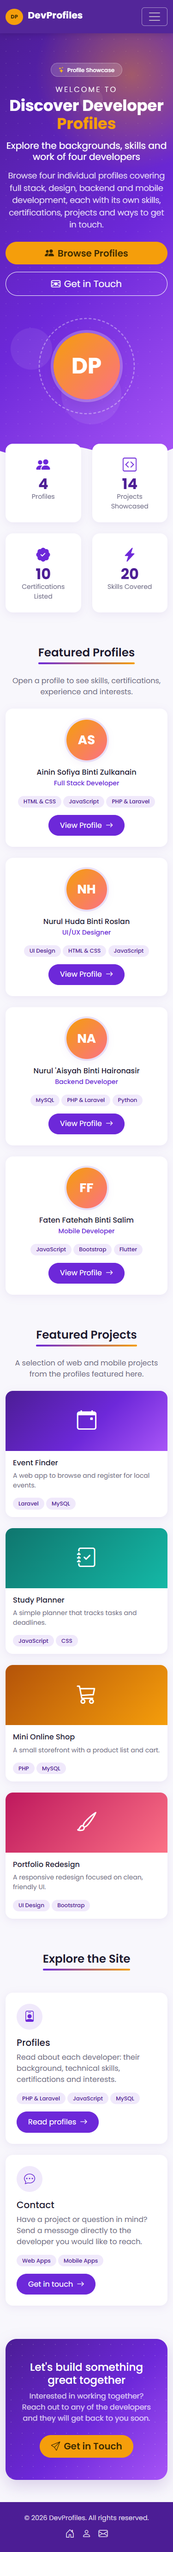
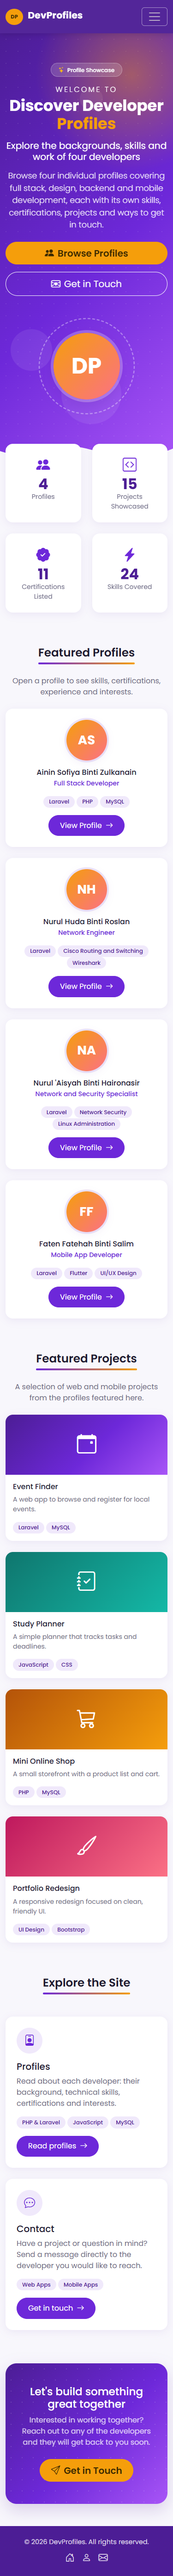
update

Changed region(s): [[0.0293, 0.1558, 0.968, 0.9969], [0.0293, 0.0312, 0.968, 0.1869]]

diff --git a/public/css/style.css b/public/css/style.css
@@ -304,10 +304,10 @@ html { scroll-behavior: smooth; }
 .form-select:focus { border-color: var(--c-primary); box-shadow: 0 0 0 .2rem rgba(109, 40, 217, .18); }
 
 /* ===== Profile pills: equal-width, avatar + name + role ===== */
-.member-pills { display: grid; grid-template-columns: repeat(4, 1fr); gap: 1rem; }
-.member-pills .nav-item { display: flex; }
+.member-pills { display: grid; grid-template-columns: repeat(4, minmax(0, 1fr)); gap: 1rem; }
+.member-pills .nav-item { display: flex; min-width: 0; }
 .member-pills .nav-link {
-    width: 100%; display: flex; align-items: center; gap: .75rem; text-align: left;
+    width: 100%; min-width: 0; display: flex; align-items: center; gap: .75rem; text-align: left;
     border-radius: 1rem; padding: .8rem 1rem; box-shadow: var(--shadow-soft);
     transition: transform .25s ease, box-shadow .25s ease, background .25s ease;
 }
@@ -319,10 +319,10 @@ html { scroll-behavior: smooth; }
 }
 .member-pills .pill-text { display: flex; flex-direction: column; line-height: 1.25; min-width: 0; }
 .member-pills .pill-text strong { font-weight: 600; font-size: 1rem; }
-.member-pills .pill-text small { font-size: .75rem; opacity: .7; overflow: hidden; text-overflow: ellipsis; white-space: nowrap; }
-@media (max-width: 991.98px) { .member-pills { grid-template-columns: repeat(2, 1fr); gap: .75rem; } }
+.member-pills .pill-text small { font-size: .75rem; opacity: .7; }
+@media (max-width: 991.98px) { .member-pills { grid-template-columns: repeat(2, minmax(0, 1fr)); gap: .75rem; } }
 @media (max-width: 575.98px) {
     .member-pills .nav-link { padding: .6rem .7rem; gap: .5rem; }
     .member-pills .pill-initials { width: 2.2rem; height: 2.2rem; font-size: .75rem; }
-    .member-pills .pill-text small { font-size: .68rem; }
+    .member-pills .pill-text small { font-size: .68rem; white-space: normal; }
 }

diff --git a/config/team.php b/config/team.php
@@ -3,12 +3,11 @@
 /*
  * Profile data for the whole site (no database). Read in views with config('team').
  *
- * SAMPLE CONTENT: names and slugs are real. Every other value in this file
- * (roles, bios, focus, skills and percentages, certifications, hobbies,
- * emails, phones, social links, project counts) is sample text that each
- * person MUST replace with their own details before the site is published.
- * Each person edits only their own block. 'ref' is kept for records only
- * and is never displayed on the website.
+ * Each person edits only their own block. Names, slugs, programmes, university
+ * and email addresses are real; skill percentages, certifications, hobbies,
+ * phone numbers, project counts and social links (#) are sample values to be
+ * replaced with each person's own details. 'ref' is kept for records only and
+ * is never displayed on the website.
  */
 
 return [
@@ -21,34 +20,35 @@ return [
         'name'     => 'Ainin Sofiya Binti Zulkanain',
         'ref'      => 'CB23015',
         'title'    => 'Full Stack Developer',
-        'bio'      => 'I am a full stack developer who builds complete web applications from database to interface, with a focus on clean code and reliable delivery. I enjoy turning a rough idea into a product people actually use.',
-        'focus'    => 'Web application development',
-        'location' => 'Kuala Lumpur, Malaysia',
-        'projects' => 4,
+        'bio'      => 'I am a Software Engineering undergraduate who builds complete web applications, from the database to the interface. I work mainly with PHP and Laravel and care about clean, maintainable code. I enjoy turning a rough idea into a product people actually use.',
+        'focus'    => 'Bachelor of Computer Science (Software Engineering)',
+        'location' => 'Universiti Malaysia Pahang Al-Sultan Abdullah',
+        'projects' => 5,
         'skills' => [
-            ['name' => 'HTML & CSS',     'level' => 90],
-            ['name' => 'JavaScript',     'level' => 75],
-            ['name' => 'PHP & Laravel',  'level' => 80],
-            ['name' => 'MySQL',          'level' => 70],
-            ['name' => 'Collaboration',       'level' => 85],
+            ['name' => 'Laravel',      'level' => 85],
+            ['name' => 'PHP',          'level' => 82],
+            ['name' => 'MySQL',        'level' => 78],
+            ['name' => 'JavaScript',   'level' => 75],
+            ['name' => 'Git',          'level' => 80],
+            ['name' => 'UI/UX Design', 'level' => 60],
         ],
         'certifications' => [
-            ['name' => 'Web Development Fundamentals', 'note' => 'Professional certificate', 'icon' => 'bi-globe2'],
-            ['name' => 'Cloud Computing Fundamentals', 'note' => 'Professional certificate', 'icon' => 'bi-cloud-check-fill'],
-            ['name' => 'Database Design',              'note' => 'Professional certificate', 'icon' => 'bi-database-fill'],
+            ['name' => 'Oracle Cloud Foundations',        'note' => 'Oracle University',         'icon' => 'bi-cloud-check-fill'],
+            ['name' => 'PHP and Laravel Web Development', 'note' => 'Online course certificate', 'icon' => 'bi-code-slash'],
+            ['name' => 'Git and GitHub Essentials',       'note' => 'Online course certificate', 'icon' => 'bi-git'],
         ],
         'hobbies' => [
-            ['name' => 'Reading',     'text' => 'Exploring new ideas and stories', 'icon' => 'bi-book'],
-            ['name' => 'Photography', 'text' => 'Capturing everyday moments',      'icon' => 'bi-camera'],
-            ['name' => 'Hiking',      'text' => 'Enjoying nature and fresh air',   'icon' => 'bi-compass'],
-            ['name' => 'Gaming',      'text' => 'Relaxing with friends',           'icon' => 'bi-controller'],
+            ['name' => 'Photography',  'text' => 'Capturing everyday moments',   'icon' => 'bi-camera'],
+            ['name' => 'Badminton',    'text' => 'Weekend games to stay active', 'icon' => 'bi-trophy'],
+            ['name' => 'Reading',      'text' => 'Novels and tech blogs',        'icon' => 'bi-book'],
+            ['name' => 'Cafe hopping', 'text' => 'Finding quiet places to code', 'icon' => 'bi-cup-hot'],
         ],
         'education' => [
-            ['q' => 'Background',               'icon' => 'bi-mortarboard', 'a' => 'I am a computer science graduate with hands-on experience building web applications for clients and internal tools.'],
-            ['q' => 'Highlights',               'icon' => 'bi-trophy',      'a' => 'I have delivered four projects end to end, from planning and design to deployment and support.'],
-            ['q' => 'What I like working on',   'icon' => 'bi-bullseye',    'a' => 'Business web apps, dashboards and APIs built with PHP, Laravel and MySQL.'],
+            ['q' => 'Education',              'icon' => 'bi-mortarboard', 'a' => 'Bachelor of Computer Science (Software Engineering) at Universiti Malaysia Pahang Al-Sultan Abdullah, expected to graduate in 2027.'],
+            ['q' => 'Highlights',             'icon' => 'bi-trophy',      'a' => 'I have built five web projects, including an event finder and a small online shop, using Laravel and MySQL.'],
+            ['q' => 'What I like working on', 'icon' => 'bi-bullseye',    'a' => 'Business web apps, dashboards and APIs, from planning the database to deployment.'],
         ],
-        'email'    => 'ainin@example.com',
+        'email'    => 'ainin@gmail.com',
         'phone'    => '+60 11-3381 8393',
         'social'   => ['linkedin' => '#', 'github' => '#', 'instagram' => '#'],
     ],
@@ -60,34 +60,35 @@ return [
         'initials' => 'NH',
         'name'     => 'Nurul Huda Binti Roslan',
         'ref'      => 'CA23046',
-        'title'    => 'UI/UX Designer',
-        'bio'      => 'I am a UI/UX designer who creates simple, friendly interfaces and turns them into working prototypes. I care about how a product feels as much as how it looks.',
-        'focus'    => 'Interface and experience design',
-        'location' => 'Kuala Lumpur, Malaysia',
+        'title'    => 'Network Engineer',
+        'bio'      => 'I am a Computer Systems and Networking undergraduate who enjoys designing, configuring and troubleshooting networks. I am most comfortable with Cisco routing and switching and with reading packet captures to see what is really happening. I like building reliable networks that people never have to think about.',
+        'focus'    => 'Bachelor of Computer Science (Computer Systems and Networking)',
+        'location' => 'Universiti Malaysia Pahang Al-Sultan Abdullah',
         'projects' => 3,
         'skills' => [
-            ['name' => 'UI Design',     'level' => 85],
-            ['name' => 'HTML & CSS',    'level' => 80],
-            ['name' => 'JavaScript',    'level' => 65],
-            ['name' => 'Figma',         'level' => 75],
-            ['name' => 'Communication', 'level' => 88],
+            ['name' => 'Laravel',                    'level' => 58],
+            ['name' => 'Cisco Routing and Switching', 'level' => 88],
+            ['name' => 'Wireshark',                   'level' => 80],
+            ['name' => 'Network Security',            'level' => 72],
+            ['name' => 'Linux Administration',        'level' => 66],
+            ['name' => 'Python Scripting',            'level' => 62],
         ],
         'certifications' => [
-            ['name' => 'UI Design Essentials',     'note' => 'Professional certificate', 'icon' => 'bi-palette-fill'],
-            ['name' => 'Web Accessibility Basics', 'note' => 'Professional certificate', 'icon' => 'bi-universal-access'],
+            ['name' => 'Cisco Introduction to Networks',                   'note' => 'Cisco Networking Academy', 'icon' => 'bi-diagram-3-fill'],
+            ['name' => 'Cisco Switching, Routing and Wireless Essentials', 'note' => 'Cisco Networking Academy', 'icon' => 'bi-router-fill'],
         ],
         'hobbies' => [
-            ['name' => 'Drawing', 'text' => 'Sketching ideas and characters', 'icon' => 'bi-brush'],
-            ['name' => 'Baking',  'text' => 'Trying out new recipes',         'icon' => 'bi-cup-hot'],
-            ['name' => 'Music',   'text' => 'Listening while designing',      'icon' => 'bi-music-note-beamed'],
+            ['name' => 'Gaming',   'text' => 'Strategy and co-op games',      'icon' => 'bi-controller'],
+            ['name' => 'Home lab', 'text' => 'Tinkering with spare hardware', 'icon' => 'bi-motherboard'],
+            ['name' => 'Cycling',  'text' => 'Evening rides around town',     'icon' => 'bi-bicycle'],
         ],
         'education' => [
-            ['q' => 'Background',               'icon' => 'bi-mortarboard', 'a' => 'I am a design-focused developer with experience in user research, wireframing and high-fidelity prototyping.'],
-            ['q' => 'Highlights',               'icon' => 'bi-trophy',      'a' => 'I have designed the interfaces for three shipped products, each tested with real users.'],
-            ['q' => 'What I like working on',   'icon' => 'bi-bullseye',    'a' => 'Design systems, landing pages and mobile-first product interfaces.'],
+            ['q' => 'Education',              'icon' => 'bi-mortarboard', 'a' => 'Bachelor of Computer Science (Computer Systems and Networking) at Universiti Malaysia Pahang Al-Sultan Abdullah, expected to graduate in 2027.'],
+            ['q' => 'Highlights',             'icon' => 'bi-trophy',      'a' => 'I have configured multi-VLAN network designs with inter-VLAN routing and tested them in Cisco Packet Tracer.'],
+            ['q' => 'What I like working on', 'icon' => 'bi-bullseye',    'a' => 'Network design, traffic analysis and troubleshooting connectivity problems.'],
         ],
-        'email'    => 'huda@example.com',
-        'phone'    => '+60 12-000 0002',
+        'email'    => 'huda@gmail.com',
+        'phone'    => '+60 12-902 4367',
         'social'   => ['linkedin' => '#', 'github' => '#', 'instagram' => '#'],
     ],
 
@@ -98,37 +99,37 @@ return [
         'initials' => 'NA',
         'name'     => "Nurul 'Aisyah Binti Haironasir",
         'ref'      => 'CA23014',
-        'title'    => 'Backend Developer',
-        'bio'      => 'I am a backend developer who works on the data and server side of products, making sure they are fast, secure and dependable. I like solving the problems users never have to see.',
-        'focus'    => 'APIs, databases and server logic',
-        'location' => 'Kuala Lumpur, Malaysia',
-        'projects' => 4,
+        'title'    => 'Network and Security Specialist',
+        'bio'      => 'I am a Computer Systems and Networking undergraduate focused on keeping networks and servers secure. I enjoy hardening Linux systems, working with cloud networking on AWS and writing small Python tools. I like finding weak points before anyone else does.',
+        'focus'    => 'Bachelor of Computer Science (Computer Systems and Networking)',
+        'location' => 'Universiti Malaysia Pahang Al-Sultan Abdullah',
+        'projects' => 3,
         'skills' => [
-            ['name' => 'MySQL',           'level' => 85],
-            ['name' => 'PHP & Laravel',   'level' => 75],
-            ['name' => 'Python',          'level' => 70],
-            ['name' => 'Git',             'level' => 72],
-            ['name' => 'Problem Solving', 'level' => 82],
-            ['name' => 'Collaboration',        'level' => 80],
+            ['name' => 'Laravel',                   'level' => 60],
+            ['name' => 'Network Security',            'level' => 86],
+            ['name' => 'Linux Administration',        'level' => 82],
+            ['name' => 'Cloud Networking (AWS)',      'level' => 74],
+            ['name' => 'Wireshark',                   'level' => 72],
+            ['name' => 'Python Scripting',            'level' => 70],
         ],
         'certifications' => [
-            ['name' => 'Database Design',          'note' => 'Professional certificate', 'icon' => 'bi-database-fill'],
-            ['name' => 'Python Programming',       'note' => 'Professional certificate', 'icon' => 'bi-code-slash'],
-            ['name' => 'Version Control with Git', 'note' => 'Professional certificate', 'icon' => 'bi-git'],
+            ['name' => 'AWS Cloud Practitioner',         'note' => 'Amazon Web Services',      'icon' => 'bi-cloud-fill'],
+            ['name' => 'Cisco Cybersecurity Essentials', 'note' => 'Cisco Networking Academy', 'icon' => 'bi-shield-lock-fill'],
+            ['name' => 'Linux Essentials',               'note' => 'Cisco Networking Academy', 'icon' => 'bi-terminal-fill'],
         ],
         'hobbies' => [
-            ['name' => 'Reading', 'text' => 'Exploring new ideas and stories', 'icon' => 'bi-book'],
-            ['name' => 'Cooking', 'text' => 'Making meals for family',         'icon' => 'bi-egg-fried'],
-            ['name' => 'Walking', 'text' => 'Clearing the mind outdoors',      'icon' => 'bi-tree'],
-            ['name' => 'Puzzles', 'text' => 'Logic games and brain teasers',   'icon' => 'bi-puzzle'],
+            ['name' => 'Cooking',  'text' => 'Trying recipes at home',         'icon' => 'bi-egg-fried'],
+            ['name' => 'Hiking',   'text' => 'Weekend trails and fresh air',   'icon' => 'bi-tree'],
+            ['name' => 'Podcasts', 'text' => 'Cybersecurity and tech stories', 'icon' => 'bi-headphones'],
+            ['name' => 'Chess',    'text' => 'Planning a few moves ahead',     'icon' => 'bi-puzzle'],
         ],
         'education' => [
-            ['q' => 'Background',               'icon' => 'bi-mortarboard', 'a' => 'I am a backend engineer with experience designing relational databases and REST APIs.'],
-            ['q' => 'Highlights',               'icon' => 'bi-trophy',      'a' => 'I have built and maintained the backends for four projects, including data migrations and integrations.'],
-            ['q' => 'What I like working on',   'icon' => 'bi-bullseye',    'a' => 'Performance tuning, secure authentication and clean data models.'],
+            ['q' => 'Education',              'icon' => 'bi-mortarboard', 'a' => 'Bachelor of Computer Science (Computer Systems and Networking) at Universiti Malaysia Pahang Al-Sultan Abdullah, expected to graduate in 2027.'],
+            ['q' => 'Highlights',             'icon' => 'bi-trophy',      'a' => 'I have secured a Linux web server with firewall rules and SSH hardening, and set up a small VPC on AWS.'],
+            ['q' => 'What I like working on', 'icon' => 'bi-bullseye',    'a' => 'Network security, server hardening and automating routine checks with Python.'],
         ],
-        'email'    => 'aisyah@example.com',
-        'phone'    => '+60 12-000 0003',
+        'email'    => 'aisyah@gmail.com',
+        'phone'    => '+60 19-278 5143',
         'social'   => ['linkedin' => '#', 'github' => '#', 'instagram' => '#'],
     ],
 
@@ -139,33 +140,36 @@ return [
         'initials' => 'FF',
         'name'     => 'Faten Fatehah Binti Salim',
         'ref'      => 'CB23068',
-        'title'    => 'Mobile Developer',
-        'bio'      => 'I am a mobile developer who builds responsive apps that feel smooth on any screen size. I enjoy polishing the small details that make an app pleasant to use every day.',
-        'focus'    => 'Mobile and responsive front end',
-        'location' => 'Kuala Lumpur, Malaysia',
-        'projects' => 3,
+        'title'    => 'Mobile App Developer',
+        'bio'      => 'I am a Software Engineering undergraduate who builds cross-platform mobile apps with Flutter. I care about smooth, friendly interfaces and enjoy polishing the small details that make an app pleasant to use every day.',
+        'focus'    => 'Bachelor of Computer Science (Software Engineering)',
+        'location' => 'Universiti Malaysia Pahang Al-Sultan Abdullah',
+        'projects' => 4,
         'skills' => [
-            ['name' => 'JavaScript', 'level' => 80],
-            ['name' => 'Bootstrap',  'level' => 85],
-            ['name' => 'Flutter',    'level' => 60],
-            ['name' => 'HTML & CSS', 'level' => 88],
+            ['name' => 'Laravel',     'level' => 70],
+            ['name' => 'Flutter',      'level' => 85],
+            ['name' => 'UI/UX Design', 'level' => 82],
+            ['name' => 'JavaScript',   'level' => 74],
+            ['name' => 'Git',          'level' => 72],
+            ['name' => 'MySQL',        'level' => 68],
         ],
         'certifications' => [
-            ['name' => 'Responsive Web Design', 'note' => 'Professional certificate', 'icon' => 'bi-phone-fill'],
-            ['name' => 'Mobile App Development', 'note' => 'Professional certificate', 'icon' => 'bi-tablet-fill'],
+            ['name' => 'Flutter Development Bootcamp', 'note' => 'Online course certificate', 'icon' => 'bi-phone-fill'],
+            ['name' => 'Google UX Design Foundations', 'note' => 'Coursera',                  'icon' => 'bi-palette-fill'],
+            ['name' => 'Responsive Web Design',        'note' => 'freeCodeCamp',              'icon' => 'bi-tablet-fill'],
         ],
         'hobbies' => [
-            ['name' => 'Travelling', 'text' => 'Discovering new places',      'icon' => 'bi-airplane'],
-            ['name' => 'Movies',     'text' => 'Weekend watch parties',       'icon' => 'bi-film'],
-            ['name' => 'Badminton',  'text' => 'Staying active with friends', 'icon' => 'bi-trophy'],
+            ['name' => 'Digital sketching', 'text' => 'Drawing characters and app ideas', 'icon' => 'bi-brush'],
+            ['name' => 'Travelling',        'text' => 'Discovering new places',           'icon' => 'bi-airplane'],
+            ['name' => 'Movies',            'text' => 'Weekend watch nights',             'icon' => 'bi-film'],
         ],
         'education' => [
-            ['q' => 'Background',               'icon' => 'bi-mortarboard', 'a' => 'I am a front-end and mobile developer with experience shipping cross-platform apps.'],
-            ['q' => 'Highlights',               'icon' => 'bi-trophy',      'a' => 'I have delivered three responsive web and mobile projects used across phones, tablets and desktops.'],
-            ['q' => 'What I like working on',   'icon' => 'bi-bullseye',    'a' => 'Cross-platform apps, progressive web apps and animated, accessible interfaces.'],
+            ['q' => 'Education',              'icon' => 'bi-mortarboard', 'a' => 'Bachelor of Computer Science (Software Engineering) at Universiti Malaysia Pahang Al-Sultan Abdullah, expected to graduate in 2027.'],
+            ['q' => 'Highlights',             'icon' => 'bi-trophy',      'a' => 'I have built four Flutter and responsive web projects, each designed in Figma before development.'],
+            ['q' => 'What I like working on', 'icon' => 'bi-bullseye',    'a' => 'Cross-platform mobile apps with animated, accessible interfaces.'],
         ],
-        'email'    => 'faten@example.com',
-        'phone'    => '+60 12-000 0004',
+        'email'    => 'faten@gmail.com',
+        'phone'    => '+60 17-635 2084',
         'social'   => ['linkedin' => '#', 'github' => '#', 'instagram' => '#'],
     ],
 

diff --git a/BUILD_STEPS.md b/BUILD_STEPS.md
@@ -173,3 +173,20 @@ The site now presents four individual personal profiles, not a group. Layout, ro
 | 7 | `screenshots/` | All screenshots retaken. |
 
 Verification: `/`, `/about`, `/contact` return HTTP 200 (titles `Home | DevProfiles` etc.); tabs, hash links, accordion, validation, toast and 375px/1280px overflow checks pass; no JS errors. The rendered HTML of all three pages has no match for team, we, our, group, placeholder text, student, matric, 01B, Kodera or any matric ID. Remaining source matches are only code comments, the config file name, the `config('team')` call and Bootstrap's `list-group` class, none of which is displayed.
+
+## Realistic profile content (config/team.php) and pill fix
+
+Only `config/team.php` content changed (same fields and structure); views, routes and design are untouched, apart from the small CSS fix below.
+
+| Person | Programme | Title | Skills | Certifications | Email |
+|--------|-----------|-------|--------|----------------|-------|
+| Ainin (`ainin`) | Software Engineering | Full Stack Developer | Laravel, PHP, MySQL, JavaScript, Git, UI/UX Design | Oracle Cloud Foundations, PHP and Laravel Web Development, Git and GitHub Essentials | ainin@gmail.com |
+| Faten (`faten`) | Software Engineering | Mobile App Developer | Flutter, UI/UX Design, JavaScript, Git, MySQL | Flutter Development Bootcamp, Google UX Design Foundations, Responsive Web Design | faten@gmail.com |
+| Huda (`huda`) | Computer Systems and Networking | Network Engineer | Cisco Routing and Switching, Wireshark, Network Security, Linux Administration, Python Scripting | Cisco Introduction to Networks, Cisco Switching, Routing and Wireless Essentials | huda@gmail.com |
+| Aisyah (`aisyah`) | Computer Systems and Networking | Network and Security Specialist | Network Security, Linux Administration, Cloud Networking (AWS), Wireshark, Python Scripting, Cisco Routing and Switching | AWS Cloud Practitioner, Cisco Cybersecurity Essentials, Linux Essentials | aisyah@gmail.com |
+
+- First-person bios (2 to 3 sentences) match each field; hobbies (3 to 4) differ per person; the first accordion item is "Education": Bachelor of Computer Science (their programme), Universiti Malaysia Pahang Al-Sultan Abdullah, expected 2027, followed by "Highlights" and "What I like working on".
+- Phone numbers (`+60 1X-XXX XXXX` style, all different) and project counts are sample values; social links remain `#`. Ainin's phone was edited by the user and kept as is.
+- Home stats are computed from the config: 4 profiles, 15 projects showcased, 11 certifications listed, 24 skills covered (after Laravel was added for everyone; Aisyah's Cisco Routing and Switching skill was replaced by Laravel to stay at 6 skills).
+- CSS fix (`public/css/style.css`, profile pills): columns are now `minmax(0, 1fr)` and the role text wraps, because the longer role "Network and Security Specialist" stretched the grid and caused 72px of horizontal overflow at 375px on About.
+- Verification: all 3 pages return 200; each About tab opens from `/about#slug` and from the Home "View Profile" buttons; no overflow at 375px or 1280px on any tab; no JS errors; screenshots retaken.
